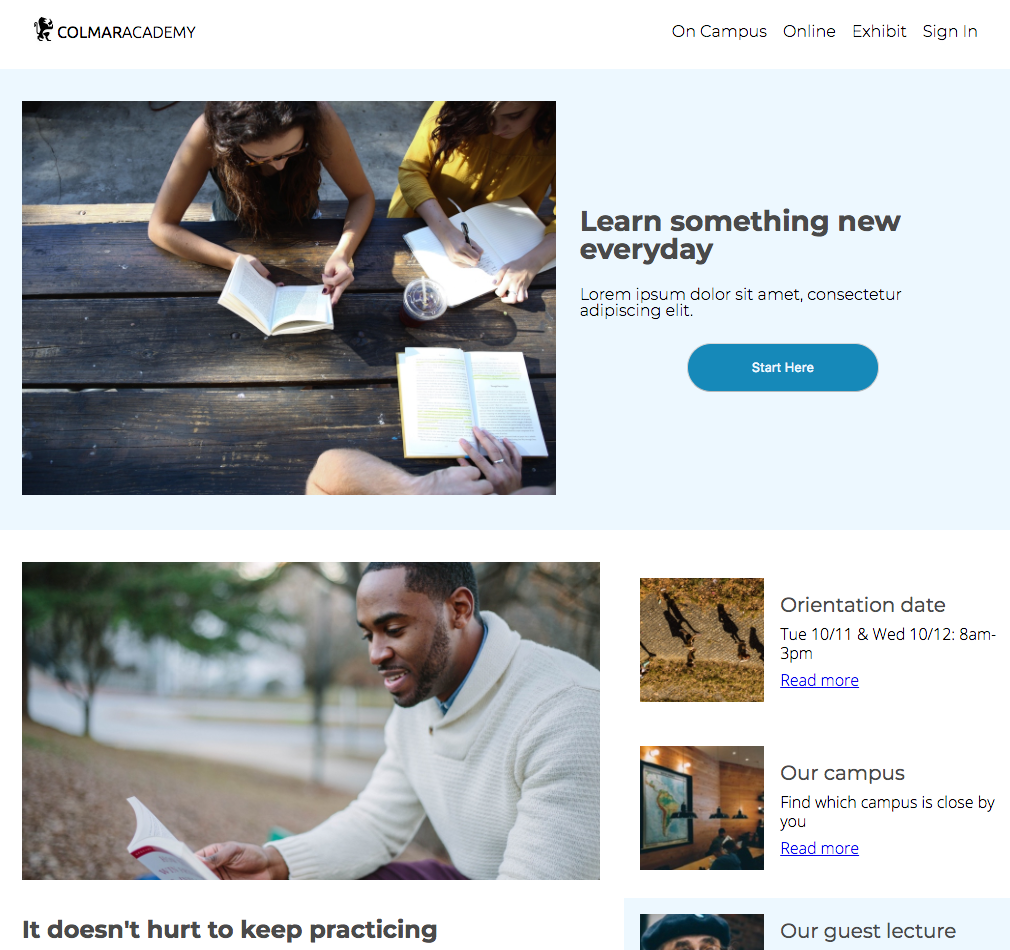
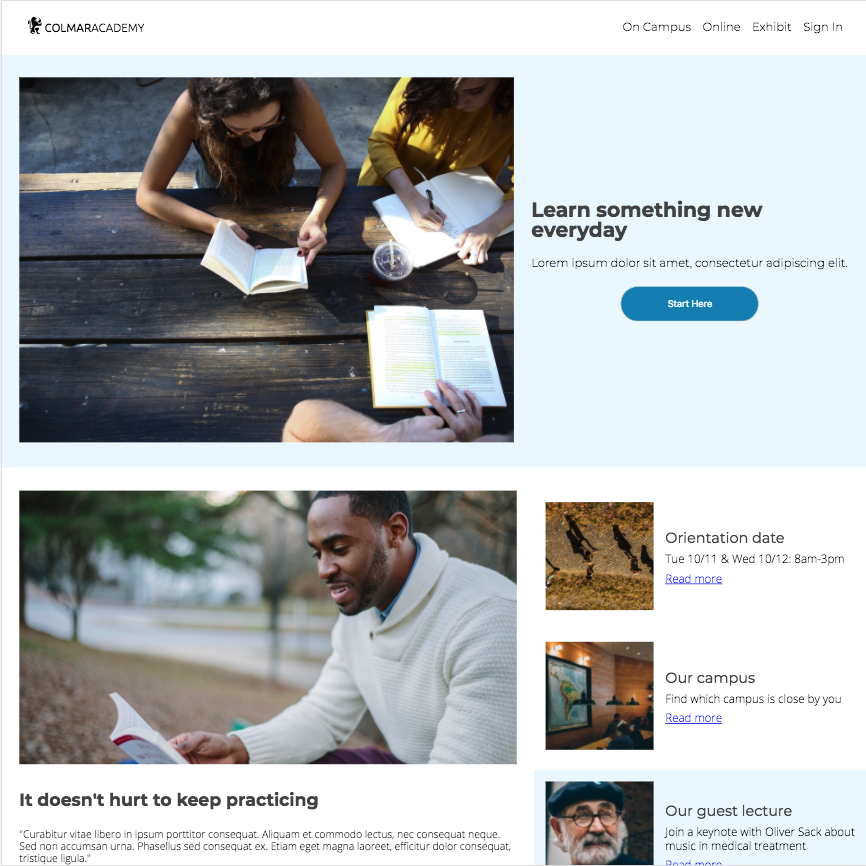
new images, edited css for easier reading. better mobile layout.

diff --git a/resources/css/style.css b/resources/css/style.css
@@ -11,6 +11,7 @@ html {
 .container {
   max-width: 1200px;
   margin: 0 auto;
+  display: flex;
 }
 
 .image-container {
@@ -50,8 +51,8 @@ a {
 }
 
 .hidden {
-  -webkit-transform: translate(0, 4rem);
-  transform: translate(0, 4rem);
+  -webkit-transform: translate(4rem, 0);
+  transform: translate(4rem, 0);
   opacity: 0;
 }
 
@@ -347,24 +348,6 @@ header .content {
   -webkit-animation-fill-mode: forwards;
   animation-fill-mode: forwards;
 }
-@media only screen and (max-width: 550px) {
-  #hero {
-    height: 30rem;
-  }
-
-  #hero .content {
-    width: 20rem;
-    height: 20rem;
-  }
-
-  #hero .content .headers {
-    padding-bottom: 2rem;
-  }
-
-  #hero .content p {
-    font-size: 1rem;
-  }
-}
 
 #hero .social {
   display: -webkit-box;
@@ -406,13 +389,36 @@ header .content {
   -webkit-animation: bounce 3s infinite;
   animation: bounce 3s infinite;
 }
+@media only screen and (max-width: 550px) {
+  #hero {
+    height: 30rem;
+  }
+
+  #hero .content {
+    width: 20rem;
+    height: 20rem;
+  }
+
+  #hero .content .headers h1{
+    font-size: 1.5rem;
+
+  }
+
+  #hero .content p {
+    font-size: 1rem;
+  }
+
+  #arrowSymbol {
+    padding-bottom: 1rem;
+  }
+}
 /* Work Section Styles */
 #work {
   padding-top: 4rem;
 }
 
 #work h2 {
-  padding: 2rem 0;
+  padding-top: 2rem;
   text-align: center;
 }
 
@@ -429,20 +435,20 @@ header .content {
   justify-content: center;
 }
 
-#project2,
-#project4 {
+.project:nth-of-type(even) {
   background-color: #f0f0f0;
 }
 
-#work .project .container {
+#work .project {
   display: -webkit-box;
   display: -ms-flexbox;
   display: flex;
-  height: 600px;
-  max-height: 800px;
+  justify-content: center;
+  padding: 0 5%;
+  min-height: 600px;
 }
 
-#work .project .container .content {
+#work .project .content {
   line-height: 1.5;
   display: -webkit-box;
   display: -ms-flexbox;
@@ -454,105 +460,55 @@ header .content {
   -webkit-box-pack: center;
   -ms-flex-pack: center;
   justify-content: center;
-  width: 40%;
-  padding: 5rem;
+  width: 50%;
+  margin-right: 4rem;
 }
 
-#work .project .container .content p {
+#work .project .content p {
   padding: 0.8rem 0;
 }
 
-#work .project .container .projectPrev {
+#work .project .projectPrev {
   display: -webkit-box;
   display: -ms-flexbox;
   display: flex;
-  overflow: hidden;
   -webkit-box-align: center;
   align-items: center;
   -ms-flex-align: center;
   -webkit-box-pack: center;
   -ms-flex-pack: center;
   justify-content: center;
-  width: 60%;
-  padding: 4rem;
+  max-width: 100%;
 }
 
-#work .project .container .projectPrev .image-container {
-  width: 100%;
+#work .project .projectPrev .image-container {
   height: 25rem;
-  border-radius: 2rem;
 }
-@media only screen and (max-width: 945px) {
-  #work .project .container .content {
-    width: 50%;
-    padding: 3rem;
-  }
-
-  #work .project .container .projectPrev {
-    width: 50%;
-    padding: 3rem;
-    border-radius: 1rem;
-  }
-
-  #work .project .container .projectPrev .image-container {
-    height: 15rem;
-  }
-}
-@media only screen and (max-width: 780px) {
+@media only screen and (max-width: 870px) {
   #work {
-    padding-top: 2.5rem;
-  }
-
-  #work p {
-    font-size: 0.8rem;
-  }
-
-  #work .project .container .content {
-    width: 60%;
-  }
-
-  #work .project .container .projectPrev {
-    width: 36rem;
-    max-width: 100%;
-  }
-}
-@media only screen and (max-width: 670px) {
-  #work {
-    padding-top: 0;
-  }
-
-  #work h2 {
-    padding: 3rem 0 0;
+    padding-top: 2rem;
   }
 
   #work .projects {
     display: block;
   }
 
-  #work .projects .project {
-    padding-bottom: 2rem;
-  }
-
-  #work .project .container {
+  #work .project .container{
     display: block;
-    padding: 1rem;
+    padding: 2rem 5%;
   }
 
-  #work .project .container .content {
-    line-height: 1.6;
-    margin: 0 auto;
+  #work .project .content {
+    width: 100%;
+    margin: 1.2rem auto;
     text-align: center;
   }
 
-  #work .project .container .projectPrev {
-    height: 22rem;
-    margin: 0 auto;
+  #work .project .projectPrev {
     padding: 0;
   }
 
-  #work .project .container .projectPrev .image-container {
-    border-radius: 1rem;
-  }
+  #work .project .projectPrev .image-container {}
 }
 /* Contact Section Styles */
 #contact {

diff --git a/index.html b/index.html
@@ -80,13 +80,13 @@
           </div>
           <div class="projectPrev">
             <div class="image-container">
-              <a href="./resources/colmar/index.html"><img src="./images/colmarAcademy-min.png" alt="project 1"></a>
+              <a href="./resources/colmar/index.html"><img src="./images/colmarAcademy.png" alt="project 1"></a>
             </div>
           </div>
         </div>
       </div>
 
-      <div class="project" id="project2">
+      <div class="project">
         <div class="container hidden">
           <div class="content">
             <h3>Ravenous</h3>
@@ -99,10 +99,9 @@
           </div>
           <div class="projectPrev">
             <div class="image-container">
-              <a href="https://sstone0.github.io/Ravenous/"><img src="./images/ravenous-min.png" alt="project 2"></a>
+              <a href="https://sstone0.github.io/Ravenous/"><img src="./images/ravenous.png" alt="project 2"></a>
             </div>
           </div>
-
         </div>
       </div>
     </div>
